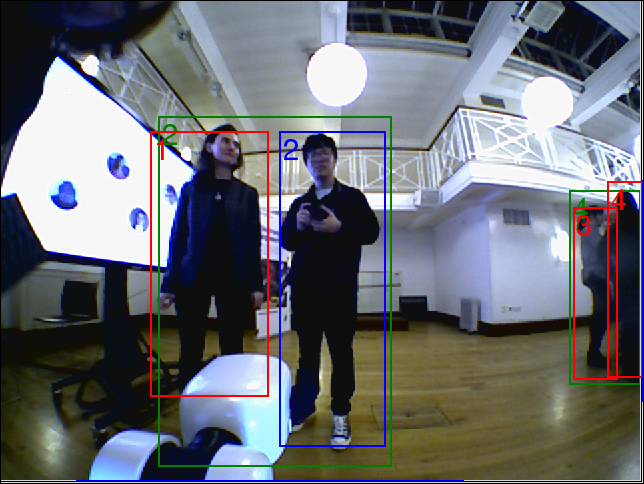
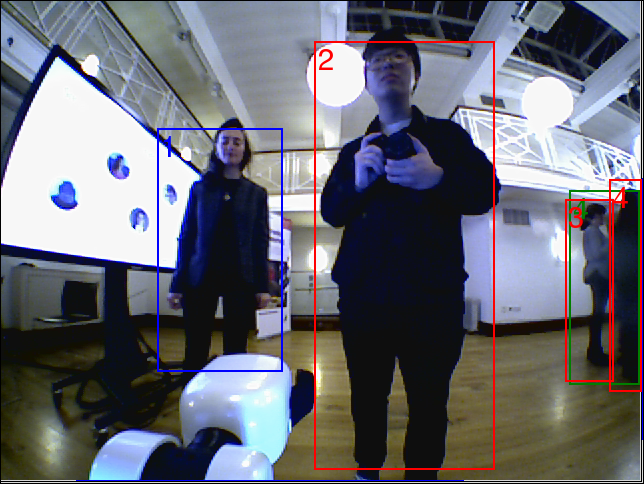
mysql based label tracking works

diff --git a/src/mod-hum-annotation.py b/src/mod-hum-annotation.py
@@ -13,7 +13,6 @@ import glob
 import copy
 import tkMessageBox
 import tkSimpleDialog
-import os
 import xml.etree.ElementTree as xml
 
 import matplotlib.image as mpimg
@@ -102,15 +101,15 @@ db = mysql.connect(
     passwd = "password",
     database = "class_assignments"
 )
-cursor = db.cursor()
+cursor = db.cursor(buffered=True)
 try:
-    cursor.execute("DESC hum_to_group")
-    print cursor.fetchall()
+    cursor.execute("DROP TABLE hum_to_group;")
 except:
-    cursor.execute(
-        "CREATE TABLE hum_to_group (id INT(11) NOT NULL AUTO_INCREMENT PRIMARY KEY, frame_no INT(11), human_id INT(11), label INT(11))")
-    cursor.execute("DESC hum_to_group")
-    print cursor.fetchall()
+    pass
+cursor.execute(
+    "CREATE TABLE hum_to_group (id INT(11) NOT NULL AUTO_INCREMENT PRIMARY KEY, frame_no INT(11), human_id INT(11), label INT(11));")
+cursor.execute("DESC hum_to_group;")
+print cursor.fetchall()
 
 
 def get_single_tag(tree, tagname):
@@ -356,11 +355,11 @@ class AAController:
 
     @staticmethod
     def select_ca_frame_info(fr_no):
-        query = "SELECT human_id, label FROM hum_to_group WHERE frame_no = %d;" % fr_no
+        query = "SELECT human_id, label FROM hum_to_group WHERE frame_no = %s;" % fr_no
         cursor.execute(query)
         frame_info = cursor.fetchall()
-        for info in frame_info:
-            print info
+        # for info in frame_info:
+        #     print 'ln 358 (select frame info: ', info
         return frame_info
 
     # Check the current annotation for validity
@@ -374,8 +373,8 @@ class AAController:
         msg2 = ''
         # print 'fr len ', len(self.frames)
         for fr_no in range(len(self.frames)-1):
-            self.select_ca_frame_info(fr_no)
-            for (i, x) in self.class_assignations[fr_no].items():
+            frame_info = self.select_ca_frame_info(fr_no)
+            for (i, x) in frame_info:
                 if x < 0:
                     msg2 = msg2 + str(i + 1) + ","
             if msg2 != '':
@@ -438,53 +437,51 @@ class AAController:
         query = "SELECT COUNT(*) FROM hum_to_group;"
         cursor.execute(query)
         frame_info = cursor.fetchall()
-        print frame_info
+        # print 'ln 437 del frame all: ', frame_info
 
-        query = "DELETE FROM hum_to_group WHERE frame_no = %d;" % fr_no
+        query = "DELETE FROM hum_to_group WHERE frame_no = %s;" % fr_no
         cursor.execute(query)
         db.commit()
 
         query = "SELECT COUNT(*) FROM hum_to_group;"
         cursor.execute(query)
         frame_info = cursor.fetchall()
-        print frame_info
+        # print 'ln 437 del frame all: ', frame_info
 
     # Remove all rectangles of the current frame
     def delete_all_rects(self):
         self.frames[self.cur_frame_nr].rects = []
         self.del_ca_frame_info(self.cur_frame_nr)
-        self.class_assignations[self.cur_frame_nr] = {}
 
     @staticmethod
     def del_ca_frame_single(fr_no, index):
-        query = "SELECT COUNT(*) FROM hum_to_group WHERE frame_no = %d;" % fr_no
+        query = "SELECT COUNT(*) FROM hum_to_group WHERE frame_no = %s;" % fr_no
         cursor.execute(query)
         frame_info = cursor.fetchall()
-        print frame_info
+        # print 'ln 459 del frame single: ', frame_info
 
-        query = "DELETE FROM hum_to_group WHERE frame_no = %d AND human_id = %d;" % (fr_no, index)
+        query = "DELETE FROM hum_to_group WHERE frame_no = %s AND human_id = %s;" % (fr_no, index)
         cursor.execute(query)
         db.commit()
 
-        query = "SELECT COUNT(*) FROM hum_to_group WHERE frame_no = %d;" % fr_no
+        query = "SELECT COUNT(*) FROM hum_to_group WHERE frame_no = %s;" % fr_no
         cursor.execute(query)
         frame_info = cursor.fetchall()
-        print frame_info
+        # print 'ln 459 del frame single: ', frame_info
 
     # Remove the rectangle with the given index from the list
     # of rectangles of the currently selected frame
     def delete_rect(self, index):
         # print 'To delete: ', index
         self.del_ca_frame_single(self.cur_frame_nr, index+1)
-        self.class_assignations[self.cur_frame_nr].pop(index+1, None)
         del self.frames[self.cur_frame_nr].rects[index]
 
     @staticmethod
     def insert_ca_frame_all(fr_info_array):
-        query = "INSERT INTO hum_to_group (frame_no, human_id, label) VALUES (%d, %d, %d);"
+        query = "INSERT INTO hum_to_group (frame_no, human_id, label) VALUES (%s, %s, %s);"
         cursor.executemany(query, fr_info_array)
         db.commit()
-        print cursor.rowcount, "records inserted"
+        # print 'ln 483 insert frame all: ', cursor.rowcount, "records inserted"
 
     def next_frame(self, do_propagate, force):
         if self.cur_frame_nr < len(self.filenames) - 1:
@@ -502,13 +499,12 @@ class AAController:
                 if y > 0:
                     # Tracking code goes here .....
                     print "Propagating ", y, "rectangle(s) to next frame"
-                    self.select_ca_frame_info(self.cur_frame_nr-1)
-                    prev_frame_classes = self.class_assignations[self.cur_frame_nr - 1].copy()
+                    frame_info = self.select_ca_frame_info(self.cur_frame_nr-1)
+                    prev_frame_classes = frame_info
                     values = []
-                    for hum_no, label in prev_frame_classes:
+                    for (hum_no, label) in prev_frame_classes:
                         values.append((self.cur_frame_nr, hum_no, label))
                     self.insert_ca_frame_all(values)
-                    self.class_assignations[self.cur_frame_nr] = prev_frame_classes
                     if trackingLib is None:
                         # simple copy
                         print "simple copy"
@@ -546,26 +542,28 @@ class AAController:
 
     @staticmethod
     def select_ca_frame_single(fr_no, obj_id):
-        query = "SELECT human_id, label FROM hum_to_group WHERE frame_no = %d AND human_id = %d;" % (fr_no, obj_id)
+        query = "SELECT human_id, label FROM hum_to_group WHERE frame_no = %s AND human_id = %s;" % (fr_no, obj_id)
         cursor.execute(query)
-        frame_info = cursor.fetchall()
-        for info in frame_info:
-            print info
+        frame_info = cursor.fetchone()
+        # for info in frame_info:
+        #     print 'ln 548 select frame single: ', info
+        # print 'ln 548: ', frame_info
         return frame_info
 
     @staticmethod
     def update_ca_frame_single(fr_no, obj_id, label):
-        query = "UPDATE hum_to_group SET label = %d WHERE frame_no = %d AND human_id = %d;" % (label, fr_no, obj_id)
+        query = "UPDATE hum_to_group SET label = %s WHERE frame_no = %s AND human_id = %s;" % (label, fr_no, obj_id)
         cursor.execute(query)
         db.commit()
+        # print 'ln 557 update frame single'
 
     @staticmethod
     def insert_ca_frame_label(fr_no, obj_id, label):
-        fr_info_array = (fr_no, obj_id, label)
-        query = "INSERT INTO hum_to_group (frame_no, human_id, label) VALUES (%d, %d, %d);"
-        cursor.execute(query, fr_info_array)
+        fr_info_single = (fr_no, obj_id, label)
+        query = "INSERT INTO hum_to_group (frame_no, human_id, label) VALUES (%s, %s, %s);"
+        cursor.execute(query, fr_info_single)
         db.commit()
-        print cursor.rowcount, "records inserted"
+        # print 'ln 563 insert frame single: ', cursor.rowcount, "record inserted"
 
     def next_frame_prop_current_rect(self, rect_index):
         propagate_id = self.frames[self.cur_frame_nr].rects[rect_index].object_id
@@ -579,11 +577,10 @@ class AAController:
 
             frame_info = self.select_ca_frame_single(self.cur_frame_nr, propagate_id)
             prev_frame_info = self.select_ca_frame_single(self.cur_frame_nr-1, propagate_id)
-            if len(frame_info) > 0:
+            if frame_info is not None:
                 self.update_ca_frame_single(self.cur_frame_nr, propagate_id, prev_frame_info[1])
             else:
                 self.insert_ca_frame_label(self.cur_frame_nr, propagate_id, prev_frame_info[1])
-            self.class_assignations[self.cur_frame_nr][propagate_id] = self.class_assignations[self.cur_frame_nr-1][propagate_id]
             print "we have ", x, " objects"
             print "we had  ", y, " objects"
 
@@ -675,7 +672,6 @@ class AAController:
         self.frames[fnr].get_rects().append(AARect(x1, y1, x2, y2, object_id))
         # print 'addrect object id ', object_id
         self.insert_ca_frame_label(fnr, object_id, aclass)
-        self.class_assignations[fnr][object_id] = aclass
 
     def del_rect(self, index):
         del self.frames[self.cur_frame_nr].get_rects()[index]
@@ -690,23 +686,22 @@ class AAController:
 
     @staticmethod
     def count_ca_frame_objects(fr_no):
-        query = "SELECT COUNT(*) FROM hum_to_group WHERE frame_no = %d;" % fr_no
+        query = "SELECT COUNT(*) FROM hum_to_group WHERE frame_no = %s;" % fr_no
         cursor.execute(query)
-        frame_info = cursor.fetchall()
-        print frame_info
-        return  frame_info
+        frame_info = cursor.fetchone()[0]
+        print 'ln 692 count frame objects: ', frame_info
+        return frame_info
 
     # Tell the system the given object_id is used. If the array holding the classes
     # for the different ids is not large enough, grow it and insert -1 as class
     def use_object_id(self, new_id):
         # print 'useobjectid curframenr ', self.cur_frame_nr
-        self.count_ca_frame_objects(self.cur_frame_nr)
-        neededcap = new_id - len(self.class_assignations[self.cur_frame_nr].keys())
+        count = self.count_ca_frame_objects(self.cur_frame_nr)
+        neededcap = new_id - count
         if neededcap > 0:
             for i in range(neededcap):
                 # print 'useobjectid new_id ', new_id
                 self.insert_ca_frame_label(self.cur_frame_nr-1, new_id, -1)
-                self.class_assignations[self.cur_frame_nr-1][new_id] = -1
         print "new run id array", self.class_assignations[self.cur_frame_nr]
 
     def export_xml(self):
@@ -738,10 +733,10 @@ class AAController:
                 for (j, r) in enumerate(f.get_rects()):
                     frame_info = self.select_ca_frame_info(i)
                     frame_keys = [info[0] for info in frame_info]
-                    if cur_object_id+1 in self.class_assignations[i].keys() and cur_object_id+1 == r.object_id:
+                    if cur_object_id+1 in frame_keys and cur_object_id+1 == r.object_id:
                         frame_info = self.select_ca_frame_single(i, r.object_id)
                         label = frame_info[1]
-                        obj_class = self.class_assignations[i][r.object_id]
+                        obj_class = label
                         if not found_rects:
                             found_rects = True
                             fd.write("	<object nr=\"" + str(cur_object_id + 1) + "\">\n")
@@ -790,7 +785,7 @@ class AAController:
                 frame_info = self.select_ca_frame_single(i, r.object_id)
                 label = frame_info[1]
                 print >> fd, "	<object>"
-                print >> fd, "		<name>" + str(self.class_assignations[i][r.object_id]) + "</name>"
+                print >> fd, "		<name>" + str(label) + "</name>"
                 print >> fd, "		<pose>unknown</pose>"
                 print >> fd, "		<truncated>-1</truncated>"
                 print >> fd, "		<difficult>0</difficult>"
@@ -809,11 +804,11 @@ class AAController:
 
     @staticmethod
     def count_ca_frames():
-        query = "SELECT COUNT(*) FROM hum_to_group;"
+        query = "SELECT COUNT(*) FROM hum_to_group GROUP BY frame_no;"
         cursor.execute(query)
         frame_info = cursor.fetchall()
-        print frame_info
-        return frame_info
+        print 'ln 811 count all frames: ', frame_info
+        return len(frame_info)
 
     def parse_xml(self):
         tree = xml.parse(self.output_filename)
@@ -851,9 +846,6 @@ class AAController:
                 bw = int(get_att(bb, "width"))
                 bh = int(get_att(bb, "height"))
                 aclass = int(get_att(bb, "class"))
-                count = self.count_ca_frames()
-                while len(self.class_assignations) < bfnr: # REDUNDANT
-                    self.class_assignations.append({}) # REDUNDANT
                 try:
                     self.add_rect(bx, by, bx + bw - 1, by + bh - 1, anr, bfnr - 1, aclass)
                 except IndexError:
@@ -1018,8 +1010,8 @@ class Example(Frame):
         self.mousex = 1
         self.mousey = 1
         # print 'curframe ', self.ct.cur_frame_nr
-        frame_info = self.ct.count_ca_frame_objects(self.ct.cur_frame_nr)
-        self.object_id_proposed_for_new_rect = len(self.ct.class_assignations[self.ct.cur_frame_nr].keys()) + 1
+        count = self.ct.count_ca_frame_objects(self.ct.cur_frame_nr)
+        self.object_id_proposed_for_new_rect = count + 1
         self.id_text_var.set("Next id: %d" % self.object_id_proposed_for_new_rect)
         self.display_anno()
         self.display_class_assignations()
@@ -1398,7 +1390,7 @@ class Example(Frame):
         frame_info = self.ct.select_ca_frame_info(self.ct.cur_frame_nr)
         frame_keys = [info[0] for info in frame_info]
         frame_labels = [info[1] for info in frame_info]
-        x = self.ct.class_assignations[self.ct.cur_frame_nr].values()
+        x = frame_labels
         for i in range(len(x)):
             if x[i] < 0:
                 self.object_id_box.insert(END, str(i + 1) + " has no assigned class ")
@@ -1417,7 +1409,6 @@ class Example(Frame):
         # print 'objectidboxclick object id ', object_id+1
         # print 'objectidcoxclicl curfrnr ', self.ct.cur_frame_nr
         self.ct.update_ca_frame_single(self.ct.cur_frame_nr, object_id+1, class_id)
-        self.ct.class_assignations[self.ct.cur_frame_nr][object_id+1] = class_id
         self.display_class_assignations()
         self.is_modified = True
 
@@ -1426,38 +1417,37 @@ class Example(Frame):
         # print sempos.index
         if sempos.index > -1:
             count = self.ct.count_ca_frames()
-            for frame_no in range(self.ct.cur_frame_nr+1, len(self.ct.class_assignations)):
+            for frame_no in range(self.ct.cur_frame_nr+1, count):
                 frame_info = self.ct.select_ca_frame_info(frame_no)
-                if sempos.index+1 in self.ct.class_assignations[frame_no].keys():
+                frame_keys = [info[0] for info in frame_info]
+                if sempos.index+1 in frame_keys:
                     # print 'could propagate label ', frame_no, sempos.index+1
                     frame_info = self.ct.select_ca_frame_single(frame_no, sempos.index+1)
                     prev_frame_info = self.ct.select_ca_frame_single(self.ct.cur_frame_nr, sempos.index+1)
-                    if len(frame_info) > 0:
+                    if frame_info is not None:
                         self.ct.update_ca_frame_single(frame_no, sempos.index+1, prev_frame_info[1])
                     else:
                         self.ct.insert_ca_frame_label(frame_no, sempos.index+1, prev_frame_info[1])
-                    self.ct.class_assignations[frame_no][sempos.index+1] = self.ct.class_assignations[self.ct.cur_frame_nr][sempos.index+1]
         self.display_anno()
         self.display_class_assignations()
         self.is_modified = True
 
     def propagate_all_labels(self, event):
         count = self.ct.count_ca_frames()
-        for frame_no in range(self.ct.cur_frame_nr + 1, len(self.ct.class_assignations)):
+        for frame_no in range(self.ct.cur_frame_nr + 1, count):
             # print 'could propagate label ', frame_no, sempos.index+1
-            frame_all_info = self.ct.count_ca_frame_objects(frame_no)
-            frame_all_keys = [info[0] for info in frame_info]
-            prev_frame_all_info = self.ct.count_ca_frame_objects(self.ct.cur_frame_nr)
-            prev_frame_all_keys = [info[0] for info in frame_info]
-            for object_id in self.ct.class_assignations[self.ct.cur_frame_nr].keys():
-                if object_id in self.ct.class_assignations[frame_no].keys():
+            frame_all_info = self.ct.select_ca_frame_info(frame_no)
+            frame_all_keys = [info[0] for info in frame_all_info]
+            prev_frame_all_info = self.ct.select_ca_frame_info(self.ct.cur_frame_nr)
+            prev_frame_all_keys = [info[0] for info in prev_frame_all_info]
+            for object_id in prev_frame_all_keys:
+                if object_id in frame_all_keys:
                     frame_info = self.ct.select_ca_frame_single(frame_no, object_id)
                     prev_frame_info = self.ct.select_ca_frame_single(self.ct.cur_frame_nr, object_id)
-                    if len(frame_info) > 0:
+                    if frame_info is not None:
                         self.ct.update_ca_frame_single(frame_no, object_id, prev_frame_info[1])
                     else:
                         self.ct.insert_ca_frame_label(frame_no, object_id, prev_frame_info[1])
-                    self.ct.class_assignations[frame_no][object_id] = self.ct.class_assignations[self.ct.cur_frame_nr][object_id]
         self.display_anno()
         self.display_class_assignations()
         self.is_modified = True
